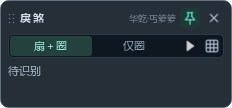
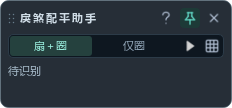
Add full application title and version-author help dialog

Changed region(s): [[0.181, 0.1111, 0.4224, 0.2222], [0.5431, 0.0833, 0.7543, 0.2222]]

diff --git a/src/lisha_overlay/panel.py b/src/lisha_overlay/panel.py
@@ -13,12 +13,15 @@ from PySide6.QtWidgets import (
     QButtonGroup,
     QHBoxLayout,
     QLabel,
+    QMessageBox,
     QPushButton,
     QSizePolicy,
     QToolButton,
     QVBoxLayout,
     QWidget,
 )
+
+from . import __version__
 
 __all__ = ["ControlPanel", "PreviewWindow"]
 
@@ -30,7 +33,6 @@ _STYLE = """
 QWidget { color: #e8edf5; font-family: 'Microsoft YaHei UI', 'Microsoft YaHei', sans-serif; font-size: 12px; }
 QLabel { background: transparent; border: none; }
 QLabel#panelTitle { color: #d0dde7; font-size: 11px; font-weight: 700; letter-spacing: 2px; }
-QLabel#authorWatermark { color: #768a98; font-size: 9px; }
 QLabel#summaryLabel { color: #9eafbe; font-size: 11px; }
 QPushButton { background: #192432; border: 1px solid #2c3a4e; border-radius: 7px; padding: 6px 8px; font-size: 11px; }
 QPushButton:hover { background: #223145; border-color: #52627b; }
@@ -45,6 +47,7 @@ QToolButton#attachButton[attached="true"] { background: #1a2c34; }
 QToolButton#tankButton { color: #9cabb9; font-size: 11px; font-weight: 700; }
 QToolButton#tankButton[selecting="true"] { color: #f3d38a; background: #3a3222; }
 QToolButton:disabled { color: #52687a; background: transparent; }
+QMessageBox { background: #101923; }
 QWidget#modeSegments { background: #0e1720; border: 1px solid #2c3b48; border-radius: 5px; }
 QToolButton[modeSegment="true"] { color: #8fa3b5; border-radius: 3px; font-size: 11px; }
 QToolButton[modeSegment="true"]:checked { color: #9af0df; background: #25413e; }
@@ -172,6 +175,15 @@ def _icon(kind: str, color: str = "#aebcd0") -> QIcon:
         painter.drawLine(13, 5, 5, 13)
     elif kind == "minus":
         painter.drawLine(5, 10, 13, 10)
+    elif kind == "help":
+        from PySide6.QtGui import QPainterPath
+
+        path = QPainterPath()
+        path.moveTo(5.5, 5.5)
+        path.cubicTo(5.5, 1.5, 12.5, 1.5, 12.5, 5.5)
+        path.cubicTo(12.5, 8, 9, 8, 9, 11)
+        painter.drawPath(path)
+        painter.drawPoint(9, 15)
     painter.end()
     return QIcon(canvas)
 
@@ -238,7 +250,7 @@ class ControlPanel(QWidget):
     def __init__(self, parent: QWidget | None = None) -> None:
         super().__init__(parent, Qt.WindowType.Window | Qt.WindowType.FramelessWindowHint | Qt.WindowType.WindowStaysOnTopHint)
         self.setObjectName("controlPanel")
-        self.setWindowTitle("戾煞 · 配平助手")
+        self.setWindowTitle("戾煞配平助手")
         self.setAttribute(Qt.WidgetAttribute.WA_TranslucentBackground)
         self.setAttribute(Qt.WidgetAttribute.WA_QuitOnClose, False)
         self.setStyleSheet(_STYLE)
@@ -283,17 +295,16 @@ class ControlPanel(QWidget):
         header.setContentsMargins(0, 0, 0, 0)
         header.setSpacing(4)
         header.addWidget(_DragGrip())
-        title = QLabel("戾煞")
+        title = QLabel("戾煞配平助手")
         title.setObjectName("panelTitle")
         title.setAttribute(Qt.WidgetAttribute.WA_TransparentForMouseEvents)
         header.addWidget(title)
         header.addStretch(1)
-        watermark = QLabel("华乾·丐箩箩")
-        watermark.setObjectName("authorWatermark")
-        watermark.setTextFormat(Qt.TextFormat.PlainText)
-        watermark.setAttribute(Qt.WidgetAttribute.WA_TransparentForMouseEvents)
-        watermark.setAccessibleName("作者 华乾·丐箩箩")
-        header.addWidget(watermark)
+        self.about_button = self._tool_button("aboutButton", "help")
+        self.about_button.setToolTip("版本信息与作者")
+        self.about_button.setAccessibleName("版本信息与作者")
+        self.about_button.clicked.connect(self._show_about)
+        header.addWidget(self.about_button)
         self.settings_button = self._tool_button("settingsButton", "settings")
         self.settings_button.setToolTip("设置")
         self.settings_button.clicked.connect(lambda _checked=False: self.settings_requested.emit())
@@ -403,6 +414,11 @@ class ControlPanel(QWidget):
         button.setCheckable(checkable)
         button.setCursor(Qt.CursorShape.PointingHandCursor)
         return button
+
+    def _show_about(self) -> None:
+        QMessageBox.about(
+            self, "版本信息", f"戾煞配平助手\n版本 {__version__}\n\nby 华乾·丐箩箩"
+        )
 
     @staticmethod
     def _button(text: str, name: str, signal: Any, icon_kind: str | None = None) -> QPushButton:
@@ -727,7 +743,7 @@ class PreviewWindow(QWidget):
     def __init__(self, parent: QWidget | None = None) -> None:
         super().__init__(parent, Qt.WindowType.Window)
         self.setObjectName("previewWindow")
-        self.setWindowTitle("扫描区域预览 · 戾煞配平")
+        self.setWindowTitle("扫描区域预览 · 戾煞配平助手")
         self.setAttribute(Qt.WidgetAttribute.WA_QuitOnClose, False)
         self.setStyleSheet(_STYLE + "\nQWidget#previewWindow { background: #101923; }")
         self.resize(760, 540)

diff --git a/tests/test_compact_panel.py b/tests/test_compact_panel.py
@@ -1,29 +1,48 @@
 """Compact toolbar controls remain available without growing into a dashboard."""
 
-from PySide6.QtCore import QSize, Qt
-from PySide6.QtWidgets import QAbstractButton, QLabel, QWidget
+from PySide6.QtCore import QSize, Qt, QTimer
+from PySide6.QtWidgets import QAbstractButton, QLabel, QMessageBox, QWidget
 
+from lisha_overlay import __version__
 from lisha_overlay.panel import ControlPanel
 
 
-def test_author_watermark_fits_header_without_intercepting_mouse_input(qt_app):
+def test_full_title_and_about_button_fit_the_compact_header(qt_app):
     panel = ControlPanel()
     try:
         panel.show()
         qt_app.processEvents()
         header = panel.findChild(QWidget, "dragHandle")
-        watermark = panel.findChild(QLabel, "authorWatermark")
         title = panel.findChild(QLabel, "panelTitle")
 
         assert panel.size() == QSize(232, 108)
-        assert watermark.text() == "华乾·丐箩箩"
-        assert watermark.isVisible()
-        assert watermark.testAttribute(Qt.WidgetAttribute.WA_TransparentForMouseEvents)
-        assert watermark.focusPolicy() == Qt.FocusPolicy.NoFocus
-        assert header.rect().contains(watermark.geometry())
-        assert title.geometry().right() < watermark.geometry().left()
-        assert watermark.geometry().right() < panel.pin_button.geometry().left()
-        assert watermark.width() >= watermark.fontMetrics().horizontalAdvance(watermark.text())
+        assert panel.windowTitle() == title.text() == "戾煞配平助手"
+        assert title.testAttribute(Qt.WidgetAttribute.WA_TransparentForMouseEvents)
+        assert title.width() >= title.fontMetrics().horizontalAdvance(title.text())
+        assert panel.about_button.isVisible()
+        assert header.rect().contains(panel.about_button.geometry())
+        assert title.geometry().right() < panel.about_button.geometry().left()
+        assert panel.about_button.geometry().right() < panel.pin_button.geometry().left()
+    finally:
+        panel.hide()
+        panel.deleteLater()
+
+
+def test_about_button_opens_version_and_author_information(qt_app):
+    panel = ControlPanel()
+    texts = []
+
+    def read_and_close_about():
+        for widget in qt_app.topLevelWidgets():
+            if isinstance(widget, QMessageBox):
+                texts.append((widget.windowTitle(), widget.text()))
+                widget.accept()
+
+    try:
+        panel.show()
+        QTimer.singleShot(0, read_and_close_about)
+        panel.about_button.click()
+        assert texts == [("版本信息", f"戾煞配平助手\n版本 {__version__}\n\nby 华乾·丐箩箩")]
     finally:
         panel.hide()
         panel.deleteLater()
@@ -39,7 +58,7 @@ def test_trial_toolbar_hides_settings_test_and_attachment_controls(qt_app):
 
         assert panel.size() == QSize(232, 108)
         assert panel.sizeHint() == QSize(232, 108)
-        names = ("pinButton", "closeButton")
+        names = ("aboutButton", "pinButton", "closeButton")
         controls = [panel.findChild(QAbstractButton, name) for name in names]
         assert all(button is not None and button.isVisible() for button in controls)
         assert [button.x() for button in controls] == sorted(button.x() for button in controls)
@@ -55,7 +74,7 @@ def test_trial_toolbar_hides_settings_test_and_attachment_controls(qt_app):
         assert header.geometry().bottom() < modes.geometry().top()
         assert modes.geometry().bottom() < summary.geometry().top()
         assert panel.rect().contains(summary.geometry())
-        assert len([button for button in panel.findChildren(QAbstractButton) if button.isVisible()]) == 6
+        assert len([button for button in panel.findChildren(QAbstractButton) if button.isVisible()]) == 7
         assert not panel.tank_button.isVisible()
         instruction=panel.findChild(QLabel,'instructionLabel')
         assert summary.geometry().bottom()<instruction.geometry().top()

diff --git a/tests/test_trial_release.py b/tests/test_trial_release.py
@@ -6,6 +6,7 @@ from dataclasses import replace
 from PySide6.QtGui import QImage
 
 from lisha_overlay.analysis import PlayerState
+from lisha_overlay import __version__
 from lisha_overlay.live_strategy import evaluate_current, evaluate_exact
 from lisha_overlay.overlay import MarksOverlay
 from lisha_overlay.solver import simulate_plan
@@ -76,7 +77,7 @@ def test_debug_archive_contains_environment_and_selected_evidence_only(qt_app, t
     environment = json.loads((folder/'environment.json').read_text(encoding='utf8'))
     assert environment['capture']['desktop_recording_visible'] is True
     assert environment['screens'] and environment['hardware']['logical_cpus']
-    assert environment['version'] == '0.5.0'
+    assert environment['version'] == __version__
     (folder/'latest-analysis.json').write_text('{"status":"solved"}', encoding='utf8')
     (folder/'app.log').write_text('test', encoding='utf8')
     (folder/'unrelated.txt').write_text('not a debug artifact', encoding='utf8')

diff --git a/src/lisha_overlay/app.py b/src/lisha_overlay/app.py
@@ -1605,7 +1605,7 @@ class OverlayController(QObject):
 
     def _setup_tray(self):
         self.tray = QSystemTrayIcon(self.app.windowIcon(), self)
-        self.tray.setToolTip("戾煞 · 配平助手")
+        self.tray.setToolTip("戾煞配平助手")
         self.tray_menu = QMenu()
         restore = self.tray_menu.addAction("显示工具并恢复操作")
         restore.triggered.connect(self.restore_controls)
@@ -1750,7 +1750,7 @@ def _configure_logging():
 
 def main() -> int:
     app = QApplication(sys.argv)
-    app.setApplicationName("戾煞配平")
+    app.setApplicationName("戾煞配平助手")
     app.setOrganizationName("LishaBalancer")
     app.setQuitOnLastWindowClosed(False)
     app.setFont(QFont("Microsoft YaHei UI", 9))

diff --git a/src/lisha_overlay/__init__.py b/src/lisha_overlay/__init__.py
@@ -1,3 +1,3 @@
 """Windows screen-region recognition and raid balancing assistant."""
 
-__version__ = "0.5.0"
+__version__ = "0.5.1"

diff --git a/README.md b/README.md
@@ -1,6 +1,6 @@
-# 戾煞 · 配平助手
+# 戾煞配平助手
 
-Windows 团队面板识别与配平悬浮工具，由 **华乾·丐箩箩** 制作。当前版本 **0.5.0**。
+Windows 团队面板识别与配平悬浮工具，由 **华乾·丐箩箩** 制作。当前版本 **0.5.1**。
 
 ![紧凑工具条](assets/ui-preview.png)
 
@@ -34,7 +34,7 @@ python -m venv .venv
 4. 停止后可拖动边框或抓手调整区域，控制条可独立拖动。扫描框内部透明并允许鼠标穿透，开始后位置锁定。
 5. 右键控制条或使用托盘菜单进入设置、切换“正平优先”或导出调试包。设置预览支持逐格修正，改变区域或布局会清除旧校正。
 
-主工具条为紧凑布局，长口令会自动增加高度。角落的作者水印允许鼠标穿透，标题栏拖动及按钮操作照常使用。
+主工具条为紧凑布局，长口令会自动增加高度。标题旁的“？”按钮可查看版本信息及作者署名。
 
 识别只采集框内区域。当前版本支持桌面录屏和远程桌面显示，取图瞬间短暂隐藏标记层。录屏可使用包含悬浮窗口的桌面／显示器采集。
 
